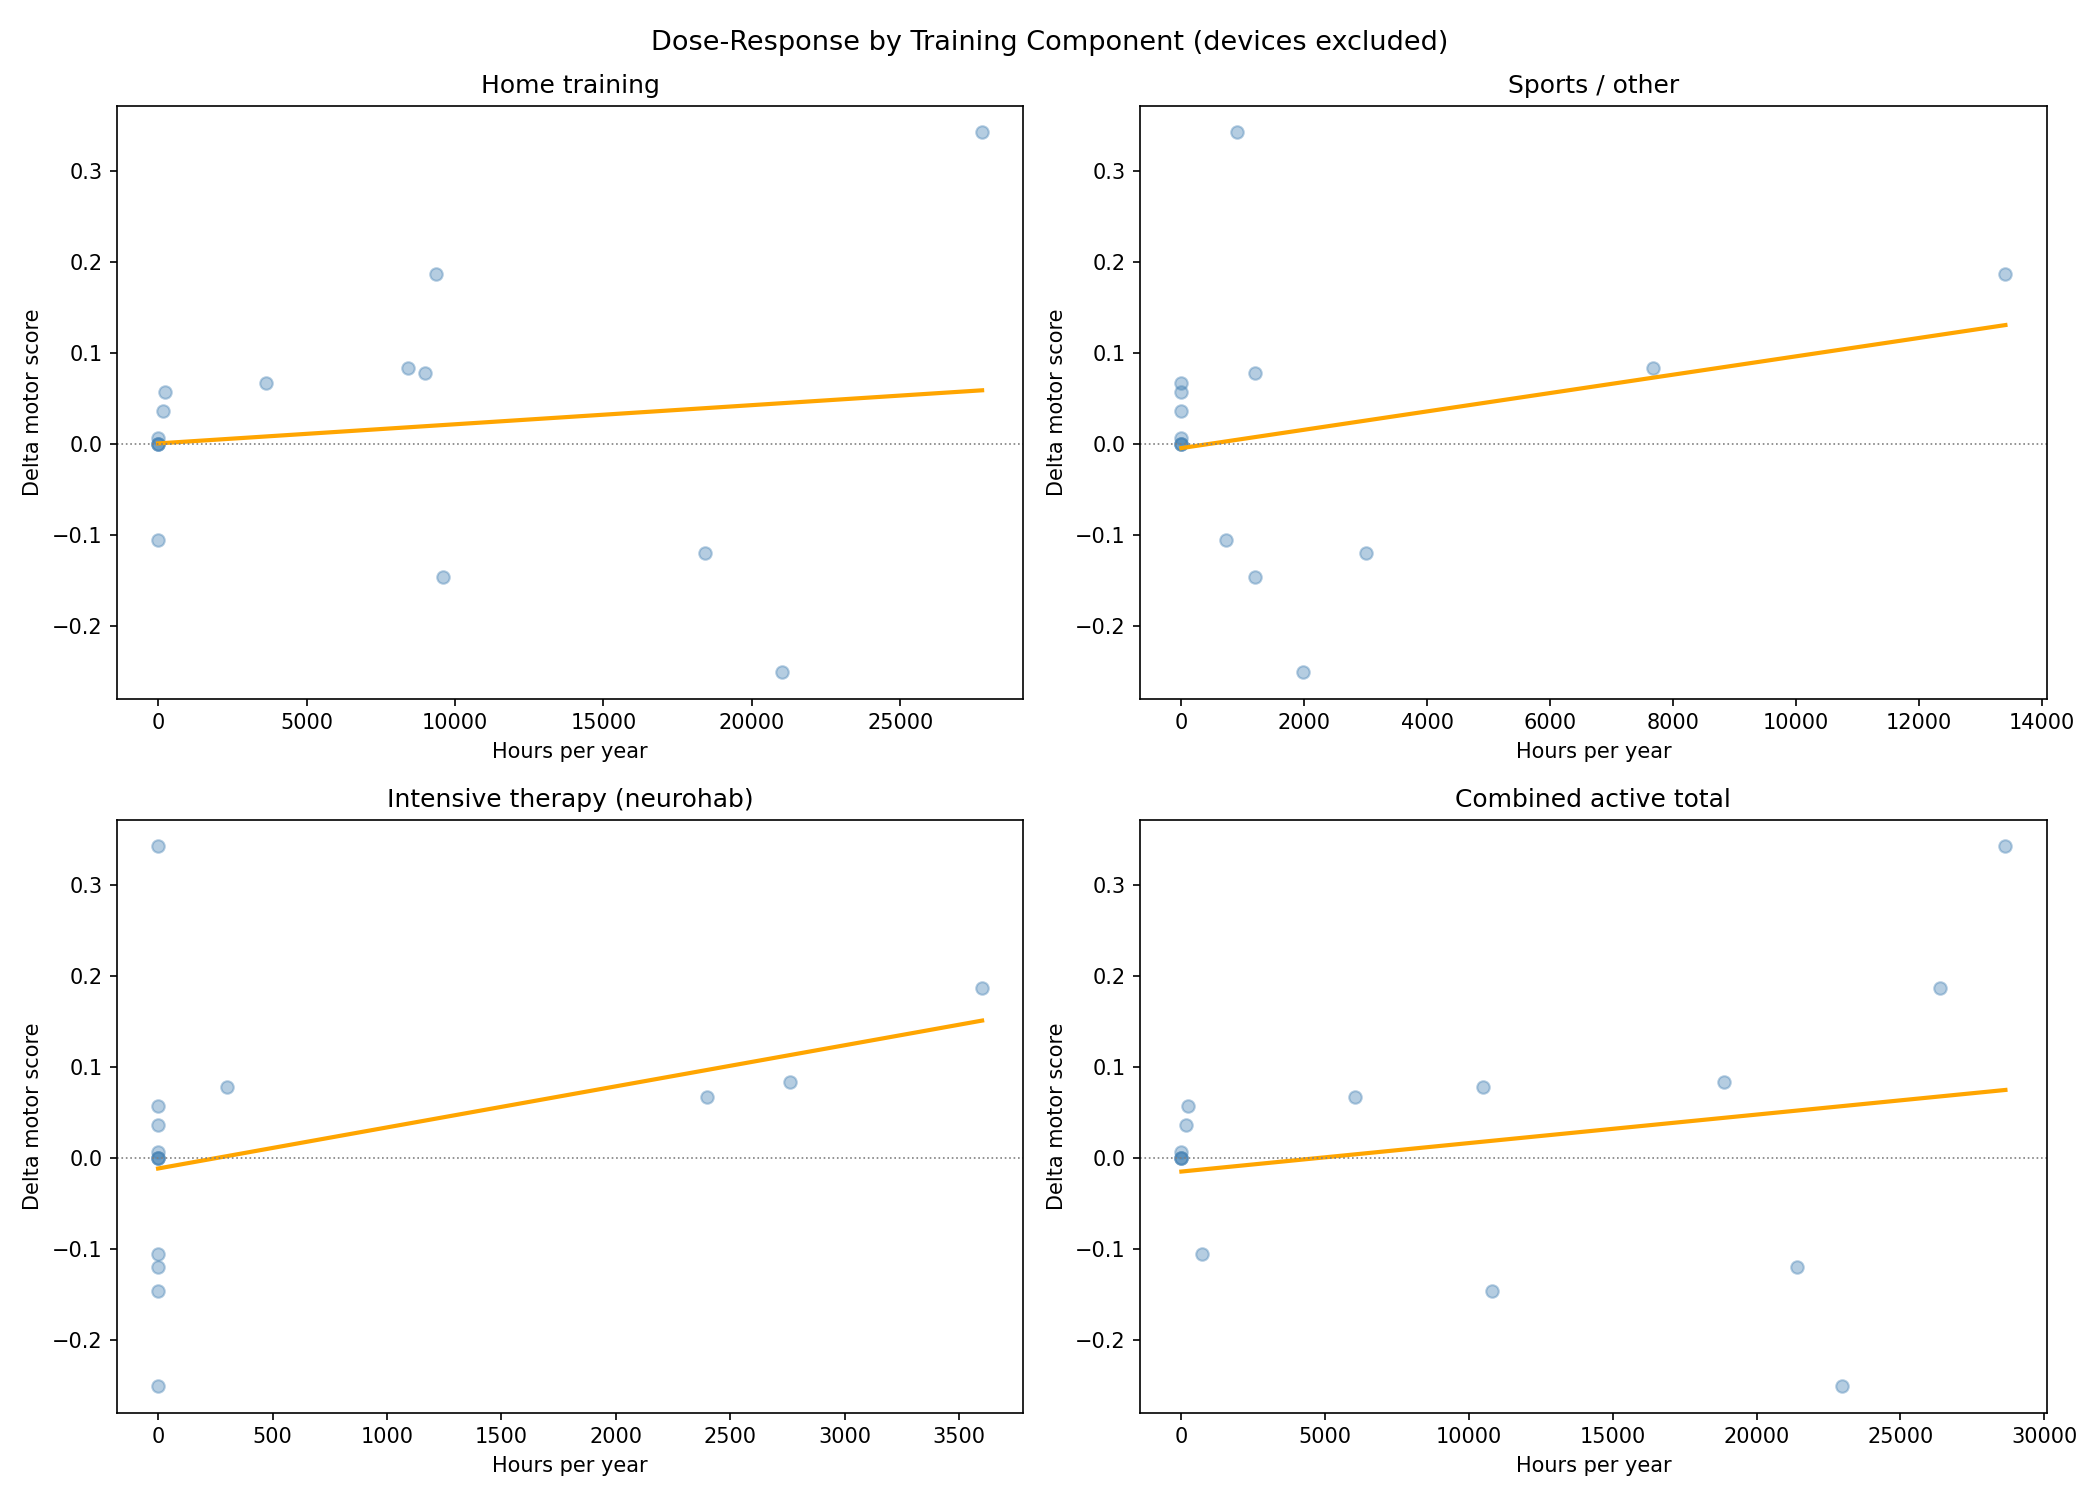
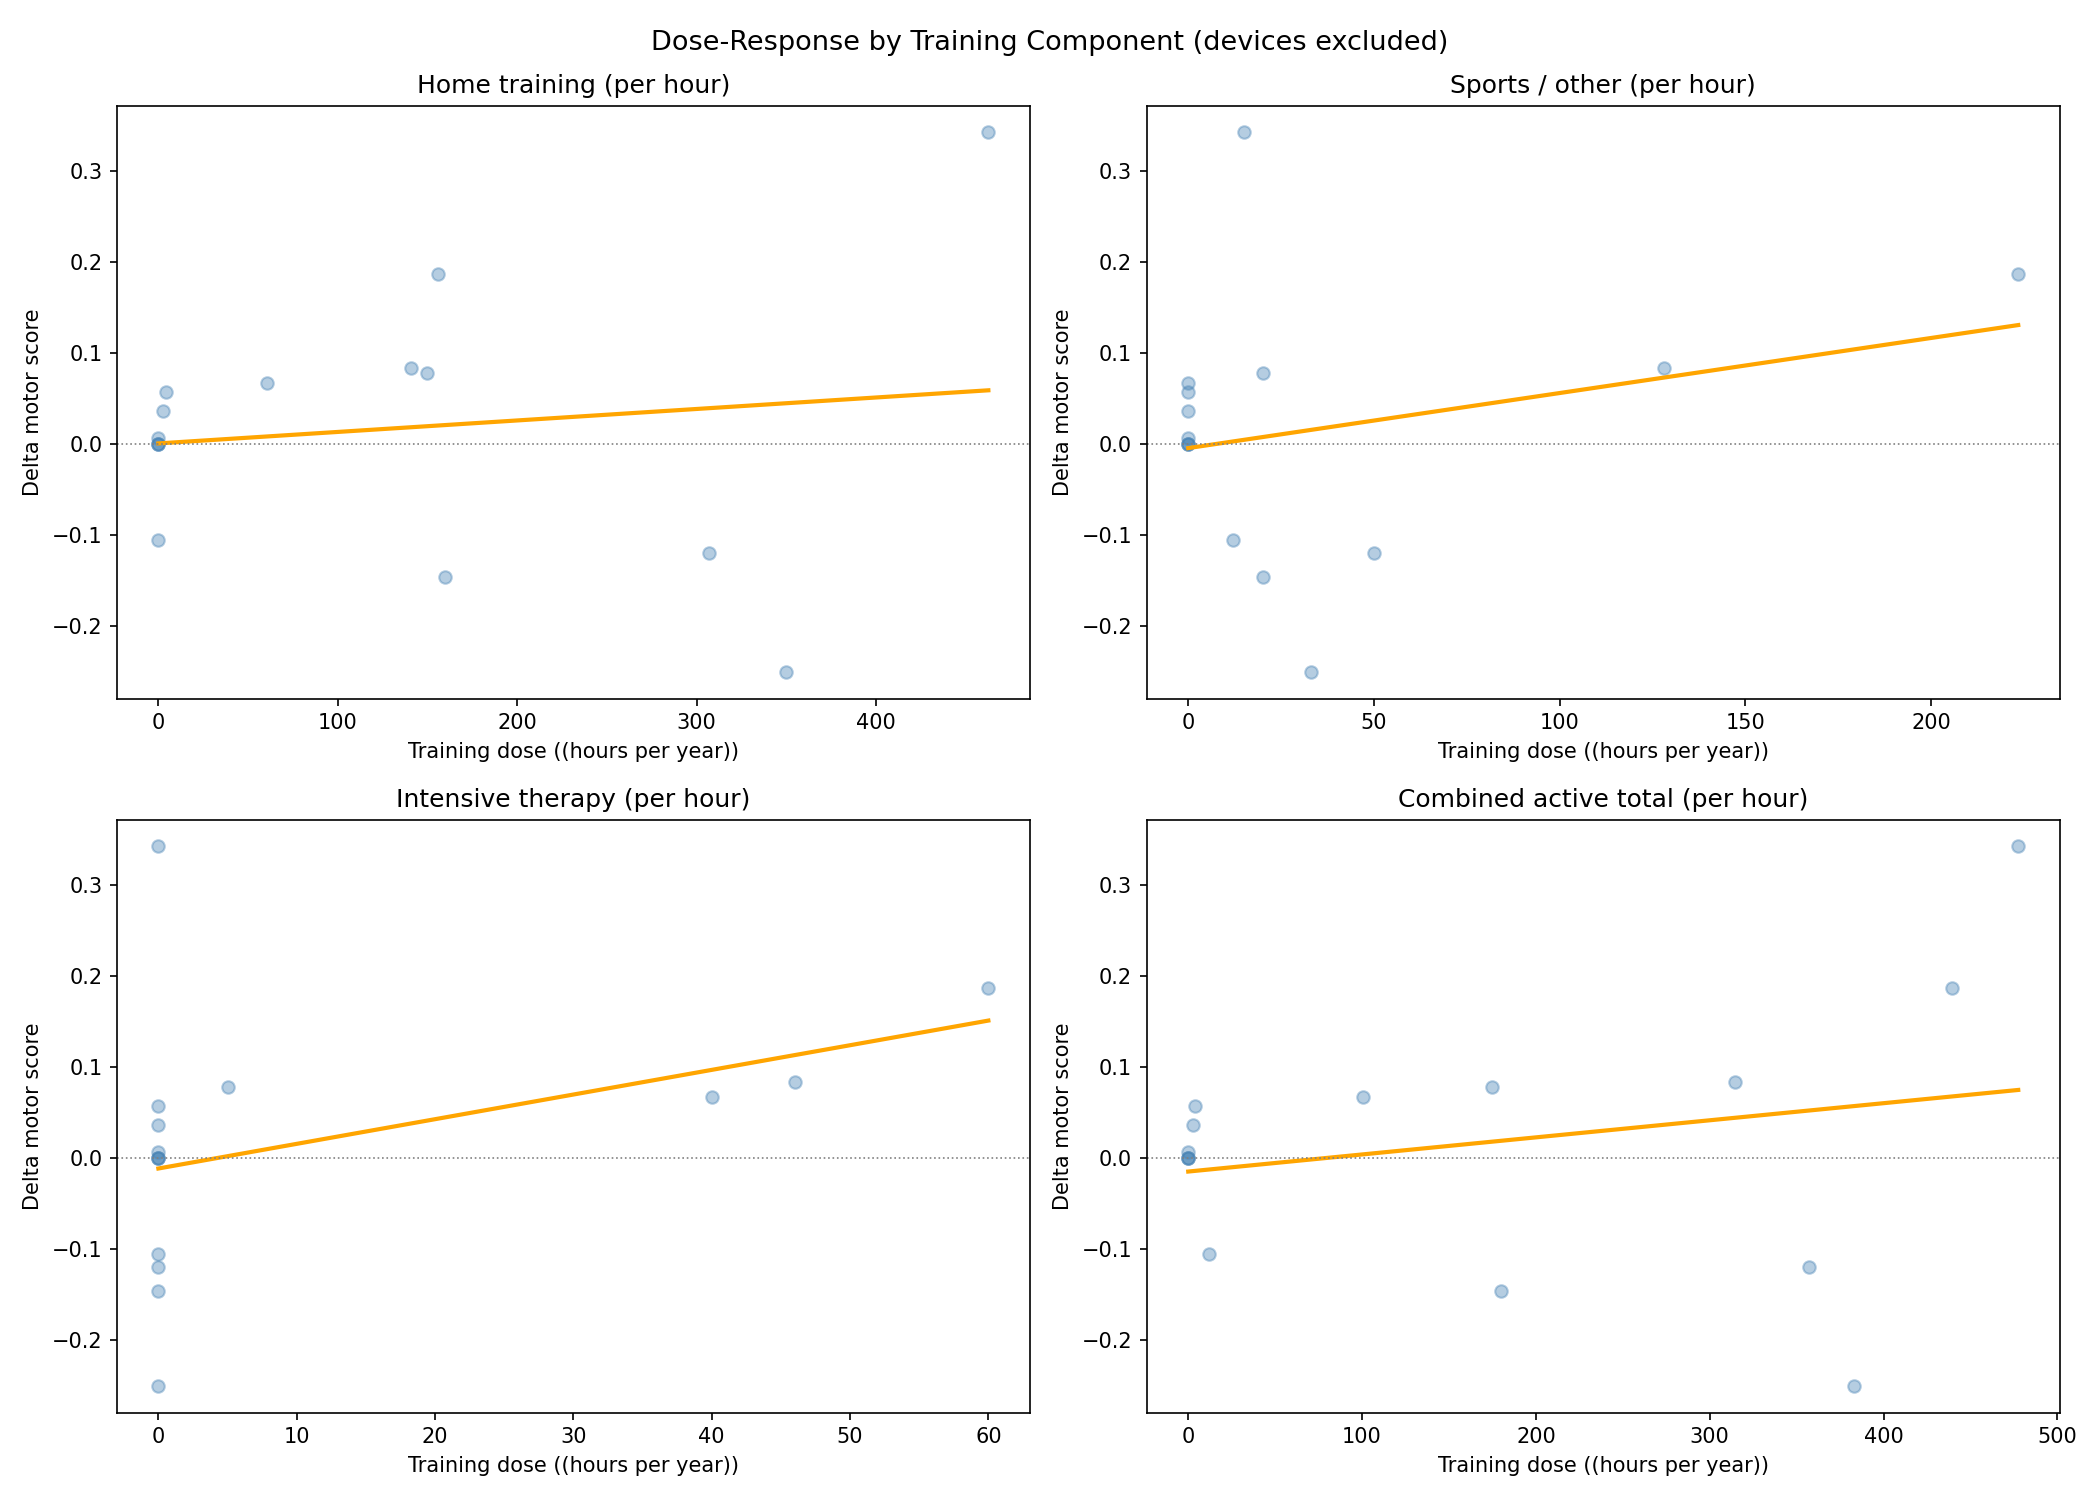
changed to hours instead of minutes and solved cum-unique problem

diff --git a/dummy_model_3.py b/dummy_model_3.py
@@ -57,6 +57,10 @@ def build_dose_response_dataset(
         .fill_null(0)
     ) #Joins total hours and category hours to motor df table and puts 0 if there is no training
 
+    df = df.with_columns(
+        (pl.col("total_training_hours") / 60).alias("total_training_hours_hr")
+    )
+
     return df.to_pandas()
 
 # -------------------------------------------------------
@@ -141,6 +145,14 @@ def build_active_hours_dataset(
         ).alias("active_total")
     ) # sums all hours for each year and child to make total active hours
 
+    df = df.with_columns([
+        (pl.col("home_hours") / 60).alias("home_hr"),
+        (pl.col("sports_hours") / 60).alias("sports_hr"),
+        (pl.col("neurohab_hours") / 60).alias("neurohab_hr"),
+        (pl.col("active_total") / 60).alias("active_total_hr"),
+    ])
+
+
     return df.to_pandas()
 
 
@@ -158,18 +170,21 @@ def analyze_active_hours(df: pd.DataFrame):
     """
 
     base_features = {
-        "home_hours": "Home training",
-        "sports_hours": "Sports / other",
-        "neurohab_hours": "Intensive therapy (neurohab)",
-        "active_total": "Combined active total",
-    } #Makes readable namnes for the 4 different features
+        "home_hr": "Home training (per hour)",
+        "sports_hr": "Sports / other (per hour)",
+        "neurohab_hr": "Intensive therapy (per hour)",
+        "active_total_hr": "Combined active total (per hour)",
+    }
+    #Makes readable namnes for the 4 different features
 
     # Detect treatment columns automatically — anything not a known column
     known_cols = [
         "introductory_id", "age", "motorical_score_2",
-        "delta_motor_score", "home_hours", "sports_hours",
-        "neurohab_hours", "active_total"
+        "delta_motor_score",
+        "home_hr", "sports_hr",
+        "neurohab_hr", "active_total_hr"
     ]
+
     treatment_features = {
         col: f"Medical: {col}"
         for col in df.columns
@@ -232,7 +247,7 @@ def analyze_active_hours(df: pd.DataFrame):
             ax.plot(x_range, model.predict(x_range_df), color="orange", linewidth=2) #Plots a smooth regression line
 
         ax.axhline(0, color="gray", linewidth=0.8, linestyle=":")
-        ax.set_xlabel("Hours per year")
+        ax.set_xlabel("Training dose ((hours per year))")
         ax.set_ylabel("Delta motor score")
         ax.set_title(label)
 
@@ -399,7 +414,7 @@ def plot_dose_response(df: pd.DataFrame, linear_model, poly_model, feature: str 
     plt.plot(x_range, linear_preds, label="Linear fit", color="orange", linewidth=2)
     plt.plot(x_range, poly_preds, label="Polynomial fit (deg 2)", color="red", linewidth=2, linestyle="--")
     plt.axhline(0, color="gray", linewidth=0.8, linestyle=":")
-    plt.xlabel("Total training hours per year")
+    plt.xlabel("Total training per year")
     plt.ylabel("Delta motor score")
     plt.title("Dose-Response: Training Hours vs Motor Score Change")
     plt.legend()
@@ -428,6 +443,7 @@ if __name__ == "__main__":
     neurohab_df = process_neurohab_hours_per_user_per_age(data["intensive_therapies"])
     medical_df = process_medical_treatments_per_user_per_age(data["intensive_therapies"])
 
+
     # Optional: filter to completed surveys only
     # completed_ids = ["f9231c8d-2ade-4c0e-a878-a9524ccc3d65", "9a3aeeeb-b409-4052-af0e-27e4893fb48f", "65ab3206-7371-4471-845c-6d238050494f"]
     # motor_df = motor_df.filter(pl.col("introductory_id").is_in(completed_ids))
@@ -437,12 +453,17 @@ if __name__ == "__main__":
 
     df = build_dose_response_dataset(motor_df, home_df)
 
-    linear_model = fit_linear_dose_response(df)
-    poly_model = fit_polynomial_dose_response(df, degree=2)
+    linear_model = fit_linear_dose_response(df, feature="total_training_hours_hr")
+    poly_model = fit_polynomial_dose_response(df, feature="total_training_hours_hr", degree=2)
 
     fit_per_category(df)
 
-    plot_dose_response(df, linear_model, poly_model)
+    plot_dose_response(
+        df,
+        linear_model,
+        poly_model,
+        feature="total_training_hours_hr"
+    )
 
     # --- Plotting (active hours = home training + other sports + therapies at centers), devices excluded ---
     active_df = build_active_hours_dataset(motor_df, home_df, neurohab_df, medical_df)

diff --git a/preprocessing_md.py b/preprocessing_md.py
@@ -186,7 +186,7 @@ def process_motorical_score_2_per_user_per_age(
             .cast(pl.Float64)
             .alias("motorical_score_2")
         )
-            .select(["introductory_id", "age", "cum_unique_milestones", "motorical_score_2"])
+            .select(["introductory_id", "age", "motorical_score_2"])
             .sort(["introductory_id", "age"])
  )
 
